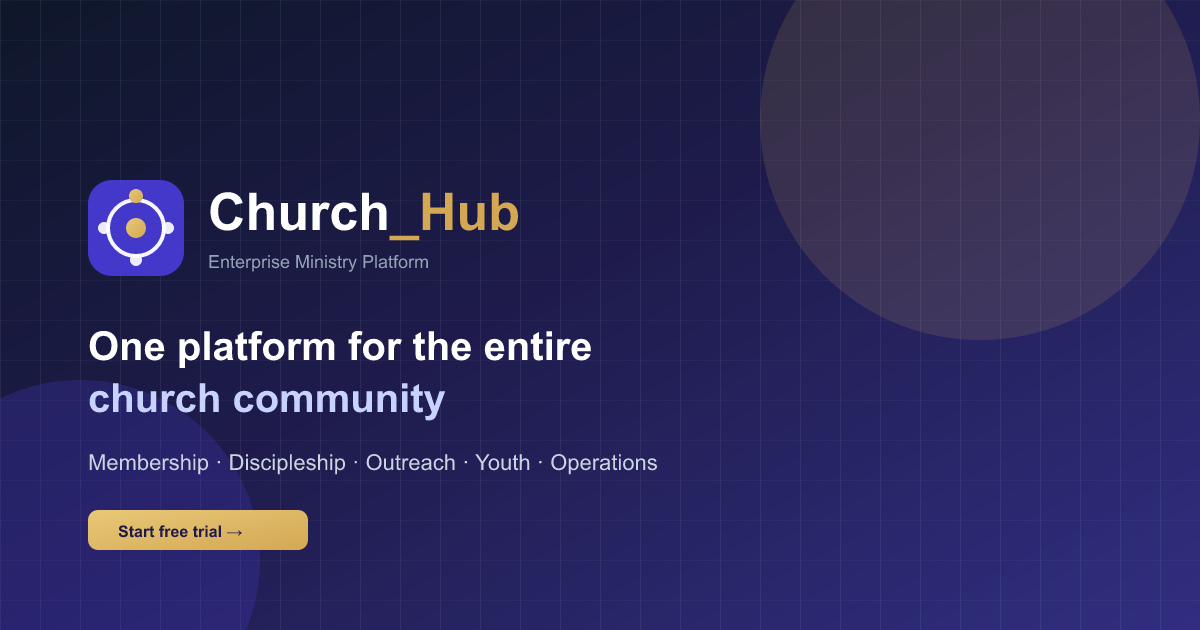
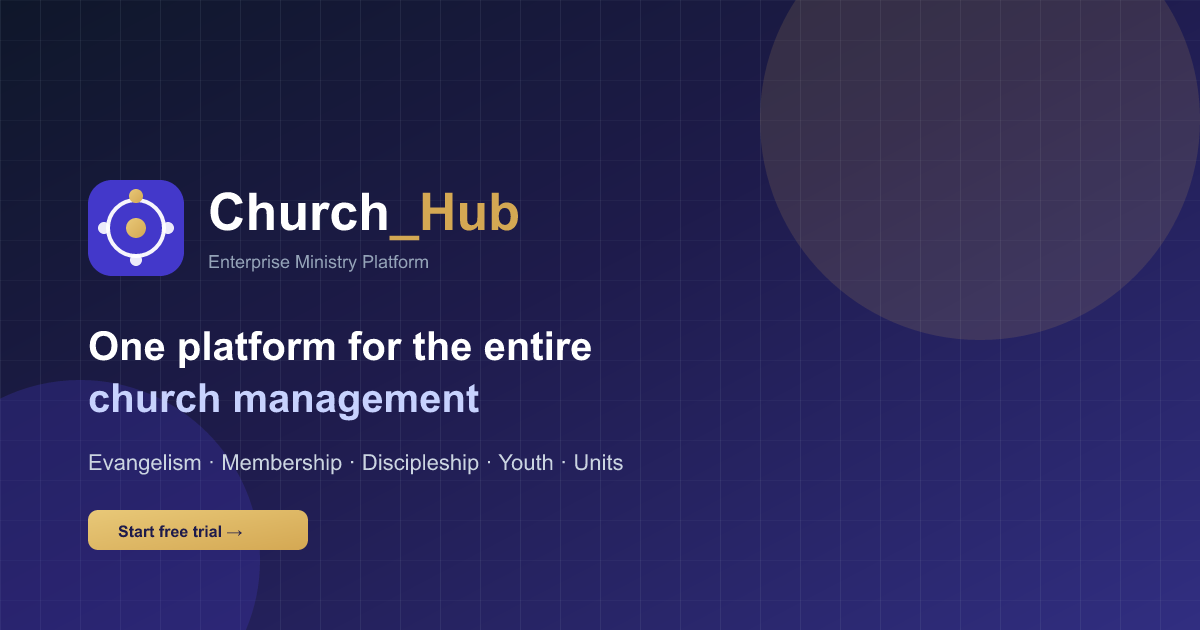
fix: update marketing hero copy and drop live demo CTA
Align landing H1/subcopy with church management messaging and keep social OG assets in sync.

Changed region(s): [[0.0617, 0.7238, 0.555, 0.754], [0.185, 0.6032, 0.4008, 0.6635]]

diff --git a/apps/web/components/marketing/HeroSection.tsx b/apps/web/components/marketing/HeroSection.tsx
@@ -27,12 +27,13 @@ export function HeroSection() {
 
           <h1 className="font-heading text-4xl font-bold leading-[1.1] text-foreground sm:text-5xl lg:text-6xl">
             One platform for the{' '}
-            <span className="text-primary">entire church community</span>
+            <span className="text-primary">entire church management</span>
           </h1>
 
           <p className="mt-6 max-w-xl text-lg leading-relaxed text-muted-foreground">
-            Church_Hub unifies membership, discipleship, evangelism, youth, business networking,
-            and bus ministry — so pastors and leaders shepherd people with clarity, not chaos.
+            Church_Hub unifies managing evangelism drives, membership, discipleship, youth & teens,
+            business networking, and unit reporting — so pastors and leaders shepherd people with
+            clarity, not chaos.
           </p>
 
           <div className="mt-8 flex flex-col gap-3 sm:flex-row">
@@ -41,9 +42,6 @@ export function HeroSection() {
                 Start 14-day free trial
                 <ArrowRight className="ml-2 h-4 w-4" />
               </Link>
-            </Button>
-            <Button size="lg" variant="outline" asChild>
-              <Link href="/dashboard">View live demo</Link>
             </Button>
           </div>
 

diff --git a/apps/web/app/opengraph-image.tsx b/apps/web/app/opengraph-image.tsx
@@ -69,7 +69,7 @@ export default function OpenGraphImage() {
               maxWidth: 920,
             }}
           >
-            One platform for the entire church community
+            One platform for the entire church management
           </div>
           <div style={{ fontSize: 22, color: '#cbd5e1', marginTop: 16, display: 'flex' }}>
             Membership | Discipleship | Outreach | Youth | Operations

diff --git a/apps/web/app/twitter-image.tsx b/apps/web/app/twitter-image.tsx
@@ -69,7 +69,7 @@ export default function TwitterImage() {
               maxWidth: 920,
             }}
           >
-            One platform for the entire church community
+            One platform for the entire church management
           </div>
           <div style={{ fontSize: 22, color: '#cbd5e1', marginTop: 16, display: 'flex' }}>
             Membership | Discipleship | Outreach | Youth | Operations
